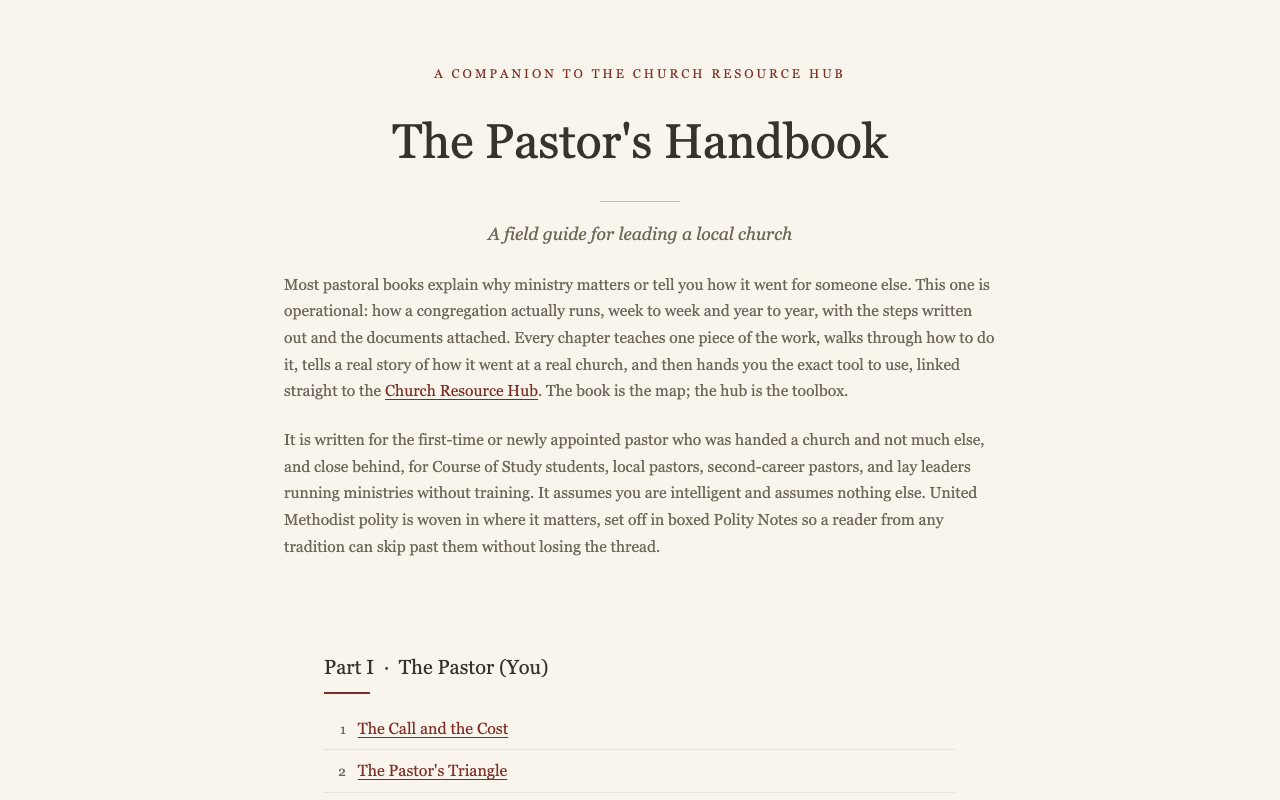
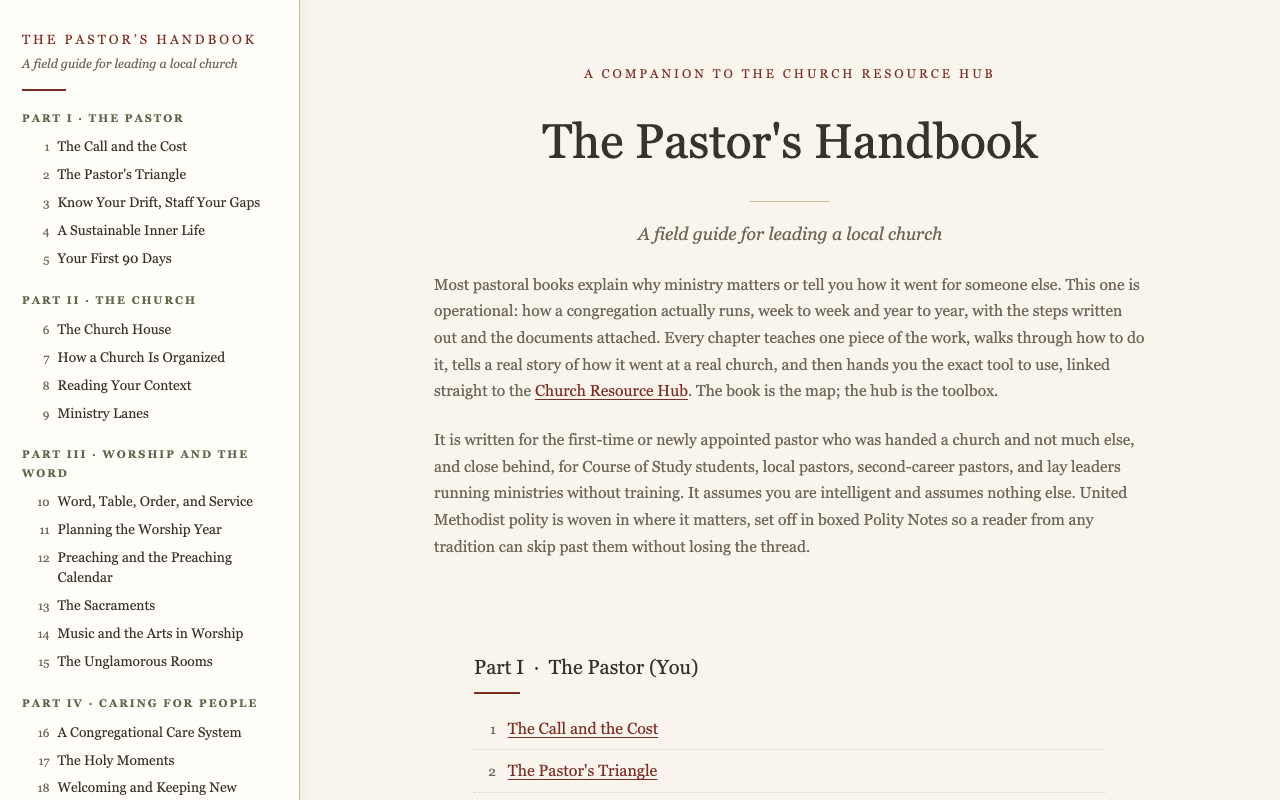
Handbook goes live: CTA to pastorhandbook.vercel.app, new two-pane hero screenshot

diff --git a/index.html b/index.html
@@ -237,7 +237,7 @@
 
 <section class="resource" id="handbook">
   <div class="shot">
-    <img src="assets/hero-book.png" alt="The Pastor's Handbook cover page: the title, the subtitle 'A field guide for leading a local church,' and the opening of the table of contents.">
+    <a href="https://pastorhandbook.vercel.app"><img src="assets/hero-book.png" alt="The Pastor's Handbook: the contents panel on the left listing all eight parts, with the cover and table of contents open in the reading pane."></a>
   </div>
   <div class="copy">
     <div class="eyebrow">The Map</div>
@@ -246,8 +246,7 @@
     <p>A digital field guide for leading a local church, written for first-time and newly appointed pastors, Course of Study students, and workshop cohorts. Thirty-four chapters across eight parts walk the whole job, from the pastor's own call and inner life through worship, care, discipleship, missions, money, and leading change, each chapter teaching one piece of the work in plain language, telling a true story of how it went at a real church, and ending with concrete steps.</p>
     <p><strong>How to use it:</strong> read it straight through or jump to the chapter for the season you are in, take its one next step this week, and follow its links to the exact documents you need.</p>
     <p><strong>How it connects:</strong> the handbook is the map to the hub's toolbox. Where the hub gives you the document, the book gives you the path, and its running case study is the same congregation whose files fill the library.</p>
-    <a class="cta soon" href="#handbook">Read the Handbook</a>
-    <span class="cta-note">Publishing soon. The full draft is complete and in review.</span>
+    <a class="cta" href="https://pastorhandbook.vercel.app">Read the Handbook</a>
   </div>
 </section>
 
@@ -291,7 +290,7 @@
 
 <footer>
   <p>Built at Spanish Fort United Methodist Church on the Alabama Gulf Coast, and shared with the whole church.</p>
-  <p><a href="https://churchresourcehub.github.io/">Church Resource Hub</a> · The Pastor's Handbook · <a href="https://theologybot.vercel.app">Woods Lisenby: Theology and Practice</a></p>
+  <p><a href="https://churchresourcehub.github.io/">Church Resource Hub</a> · <a href="https://pastorhandbook.vercel.app">The Pastor's Handbook</a> · <a href="https://theologybot.vercel.app">Woods Lisenby: Theology and Practice</a></p>
 </footer>
 
 </body>